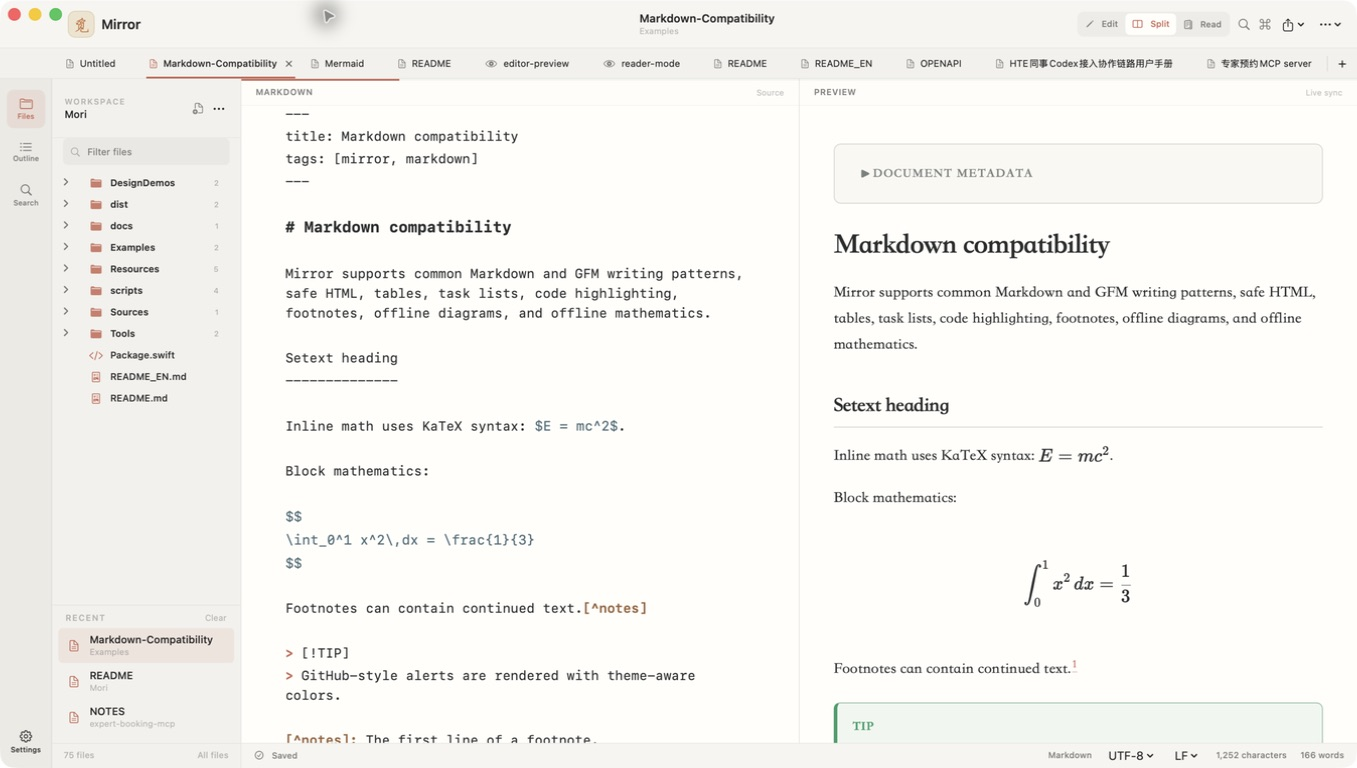
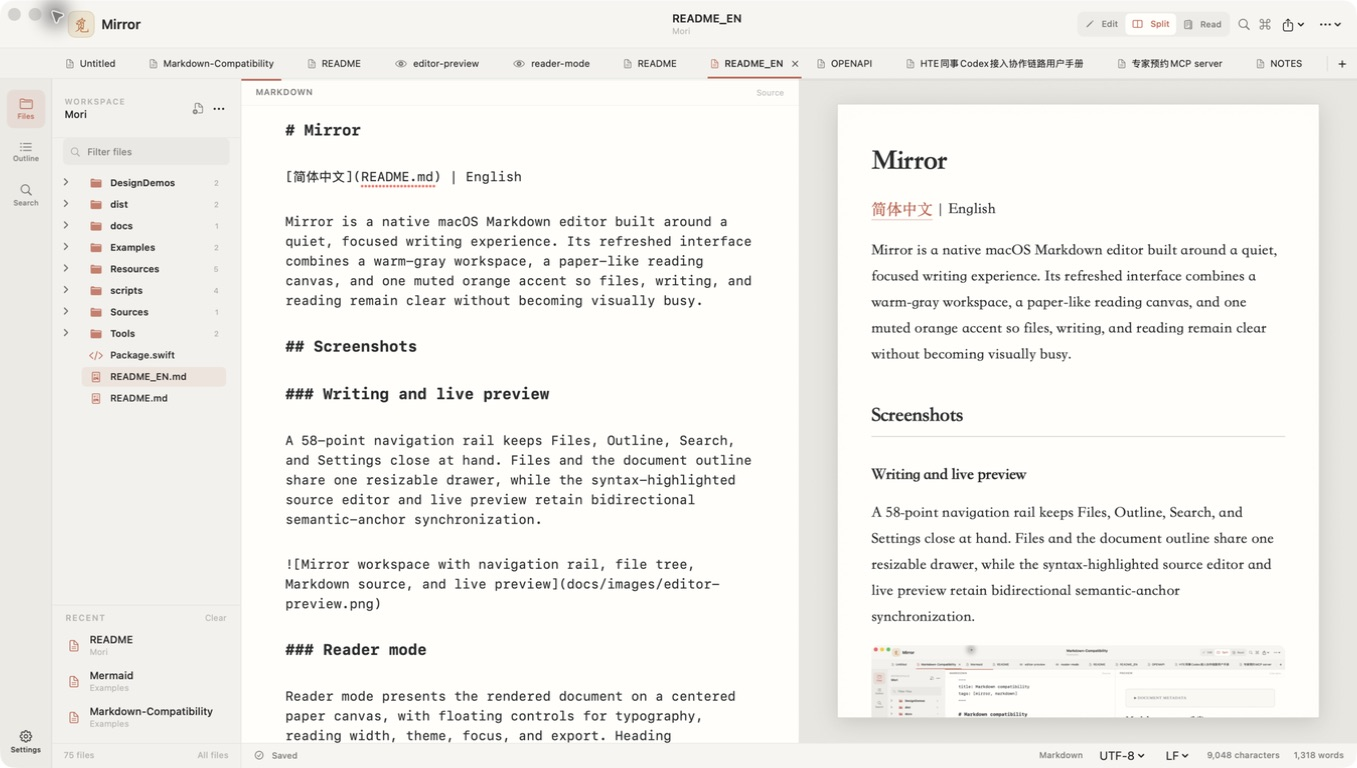
Add paper preview to split mode

diff --git a/Sources/Mori/ContentView.swift b/Sources/Mori/ContentView.swift
@@ -28,7 +28,7 @@ struct ContentView: View {
     @EnvironmentObject private var document: DocumentStore
     @Environment(\.accessibilityReduceMotion) private var reduceMotion
     @State private var isDropTarget = false
-    @State private var scrollSync = ScrollSyncState()
+    @StateObject private var scrollSync = ScrollSyncState()
 
     private enum NavigationDrawer {
         case files
@@ -469,10 +469,7 @@ private struct WritingWorkspace: View {
                     if document.readerMode {
                         ImmersiveReaderSurface(scrollSync: scrollSync)
                     } else {
-                        VStack(spacing: 0) {
-                            WorkspacePaneHeader(title: "PREVIEW", detail: "Live sync")
-                            RenderedMarkdownContent(scrollSync: scrollSync)
-                        }
+                        PaperPreviewSurface(scrollSync: scrollSync, presentation: .split)
                     }
                 }
                 .frame(minWidth: 320)
@@ -505,18 +502,34 @@ private struct RenderedMarkdownContent: View {
 }
 
 private struct ImmersiveReaderSurface: View {
+    @ObservedObject var scrollSync: ScrollSyncState
+
+    var body: some View {
+        PaperPreviewSurface(scrollSync: scrollSync, presentation: .reader)
+    }
+}
+
+private struct PaperPreviewSurface: View {
+    enum Presentation: Equatable {
+        case split
+        case reader
+
+        var showsTools: Bool { self == .reader }
+    }
+
     @EnvironmentObject private var document: DocumentStore
     @ObservedObject var scrollSync: ScrollSyncState
+    let presentation: Presentation
 
     var body: some View {
         ZStack(alignment: .trailing) {
             readerCanvas
 
             GeometryReader { proxy in
-                let horizontalInset: CGFloat = proxy.size.width < 760 ? 42 : 92
-                let desiredWidth = CGFloat(document.typography.contentWidth) + 154
-                let paperWidth = min(desiredWidth, max(480, proxy.size.width - horizontalInset * 2))
-                let paperHeight = max(360, proxy.size.height - 70)
+                let horizontalInset = paperHorizontalInset(for: proxy.size.width)
+                let desiredWidth = CGFloat(document.typography.contentWidth) + (presentation == .reader ? 154 : 112)
+                let paperWidth = min(desiredWidth, max(280, proxy.size.width - horizontalInset * 2))
+                let paperHeight = max(320, proxy.size.height - (presentation == .reader ? 70 : 56))
 
                 RenderedMarkdownContent(scrollSync: scrollSync)
                     .frame(width: paperWidth, height: paperHeight)
@@ -525,7 +538,9 @@ private struct ImmersiveReaderSurface: View {
                         Rectangle()
                             .stroke(Color(hex: document.theme.lineHex).opacity(0.9), lineWidth: 1)
                     }
-                    .shadow(color: document.theme.isDark ? .clear : .black.opacity(0.07), radius: 18, y: 8)
+                    .shadow(color: document.theme.isDark ? .clear : .black.opacity(0.07),
+                            radius: presentation == .reader ? 18 : 12,
+                            y: presentation == .reader ? 8 : 5)
                     .position(x: proxy.size.width / 2, y: proxy.size.height / 2)
             }
 
@@ -540,10 +555,21 @@ private struct ImmersiveReaderSurface: View {
                 .frame(maxWidth: .infinity, maxHeight: .infinity)
             }
 
-            ReaderToolDock()
-                .padding(.trailing, 18)
+            if presentation.showsTools {
+                ReaderToolDock()
+                    .padding(.trailing, 18)
+            }
         }
         .background(readerCanvas)
+    }
+
+    private func paperHorizontalInset(for width: CGFloat) -> CGFloat {
+        switch presentation {
+        case .split:
+            return width < 620 ? 22 : 42
+        case .reader:
+            return width < 760 ? 42 : 92
+        }
     }
 
     private var readerCanvas: Color {

diff --git a/README.md b/README.md
@@ -28,6 +28,7 @@ Mermaid 源码可以在无网络环境下直接渲染到预览区。
 
 - 原生 Markdown 编辑器，支持轻量语法高亮
 - 原生 macOS 简约界面，使用暖灰背景、纸张式内容层级和单一低饱和橙色强调色
+- 编辑与实时预览分栏同样使用居中纸张画布，与沉浸阅读模式保持一致的排版层级
 - 常驻导航窄栏，文件树与文档大纲使用互斥、可调宽的共享抽屉，并可分别关闭
 - 沉浸式阅读画布，提供实时阅读进度和字体、行高、页面宽度、主题及导出浮动工具
 - 面板与模式切换采用自然缓动，并遵循 macOS“减少动态效果”设置

diff --git a/README_EN.md b/README_EN.md
@@ -28,6 +28,7 @@ Mermaid source renders directly in the preview without a network connection.
 
 - Native Markdown editor with lightweight syntax highlighting
 - Calm native macOS interface with warm neutrals, paper-like content hierarchy, and one muted orange accent
+- Split editing uses the same centered paper preview hierarchy as the immersive reader
 - Persistent navigation rail with a mutually exclusive, resizable shared drawer for Files and Outline
 - Immersive reader canvas with live reading progress and floating typography, line-height, width, theme, focus, and export controls
 - Natural panel and mode transitions that respect the macOS Reduce Motion setting
